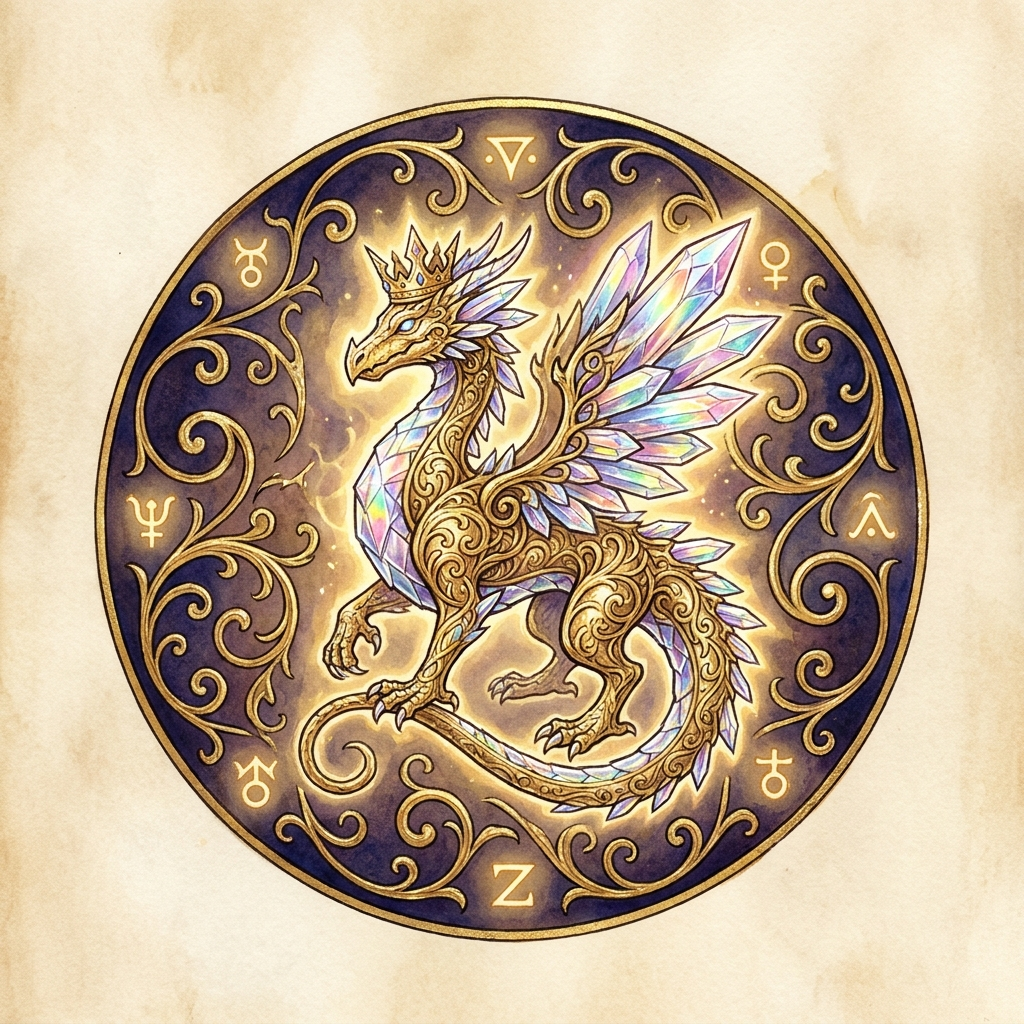
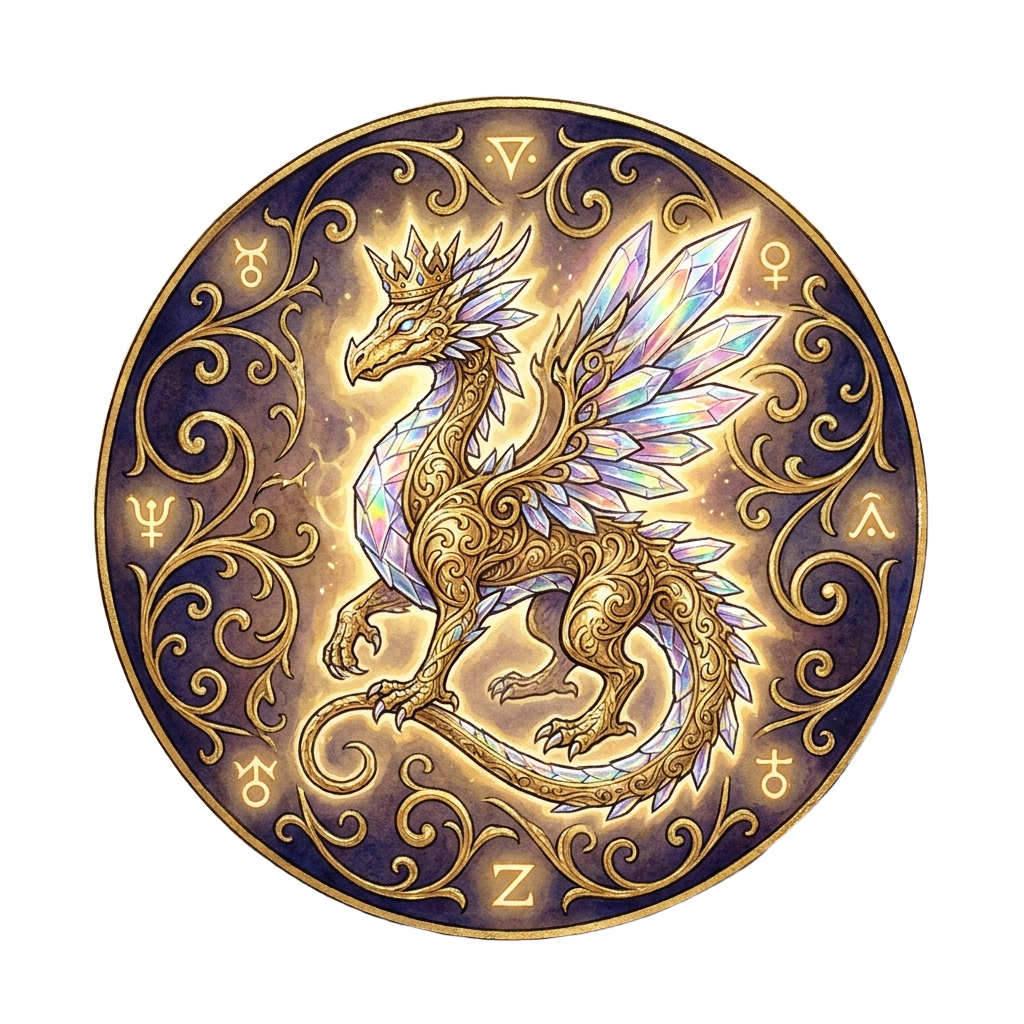
Per-tier critter art (3 refinement stages × 6 essences) with backgrounds removed
- Generated 18 critters (low/mid/high per essence) + refreshed Magnum Opus, all
  background-removed to transparent RGBA PNGs (Higgsfield)
- assets.ts: stageFor(tier) maps 1-4 low / 5-8 mid / 9-10 high / 11 Magnum Opus;
  per-essence art map; removed old tier-1 placeholders
- Critters now visibly refine as they climb the ladder; crisp transparent cards
- Web bundle includes all 19 critter assets; typecheck clean
- docs/ART_DIRECTION + README updated

diff --git a/apps/mobile/src/assets.ts b/apps/mobile/src/assets.ts
@@ -1,22 +1,54 @@
 import type { Critter, EssenceId } from "@cc/engine";
 
-// Static requires so Metro bundles the assets.
-const ESSENCE_ART: Record<EssenceId, number> = {
-  ember: require("../assets/critters/ember-t1.png"),
-  brine: require("../assets/critters/brine-t1.png"),
-  loam: require("../assets/critters/loam-t1.png"),
-  vapor: require("../assets/critters/vapor-t1.png"),
-  brimstone: require("../assets/critters/brimstone-t1.png"),
-  gleam: require("../assets/critters/gleam-t1.jpg"),
+type Stage = "low" | "mid" | "high";
+
+/** Visual refinement stage by tier: 1-4 grubby, 5-8 gleaming, 9-10 radiant. */
+function stageFor(tier: number): Stage {
+  if (tier <= 4) return "low";
+  if (tier <= 8) return "mid";
+  return "high";
+}
+
+// Static requires so Metro bundles every asset. Backgrounds removed (transparent PNGs).
+const ART: Record<EssenceId, Record<Stage, number>> = {
+  brimstone: {
+    low: require("../assets/critters/brimstone-low.png"),
+    mid: require("../assets/critters/brimstone-mid.png"),
+    high: require("../assets/critters/brimstone-high.png"),
+  },
+  vapor: {
+    low: require("../assets/critters/vapor-low.png"),
+    mid: require("../assets/critters/vapor-mid.png"),
+    high: require("../assets/critters/vapor-high.png"),
+  },
+  ember: {
+    low: require("../assets/critters/ember-low.png"),
+    mid: require("../assets/critters/ember-mid.png"),
+    high: require("../assets/critters/ember-high.png"),
+  },
+  brine: {
+    low: require("../assets/critters/brine-low.png"),
+    mid: require("../assets/critters/brine-mid.png"),
+    high: require("../assets/critters/brine-high.png"),
+  },
+  loam: {
+    low: require("../assets/critters/loam-low.png"),
+    mid: require("../assets/critters/loam-mid.png"),
+    high: require("../assets/critters/loam-high.png"),
+  },
+  gleam: {
+    low: require("../assets/critters/gleam-low.png"),
+    mid: require("../assets/critters/gleam-mid.png"),
+    high: require("../assets/critters/gleam-high.png"),
+  },
 };
 
 const MAGNUM_OPUS: number = require("../assets/critters/magnum-opus.png");
 
-/** Concept art for a critter. For now lower tiers reuse the essence art; the
- *  Magnum Opus tier gets the legendary showpiece. Add per-tier art over time. */
+/** Concept art for a critter: per-essence, per-tier-stage; Magnum Opus for the peak. */
 export function critterArt(c: Critter): number {
   if (c.tier >= 11) return MAGNUM_OPUS;
-  return ESSENCE_ART[c.essence];
+  return ART[c.essence][stageFor(c.tier)];
 }
 
 export const crucibleArt: number = require("../assets/ui/crucible.png");

diff --git a/docs/ART_DIRECTION.md b/docs/ART_DIRECTION.md
@@ -1,9 +1,10 @@
 # Art Direction — *Crucible Critters*
 
-> **Status:** Concept art not yet generated — the Higgsfield account is on the **free plan
-> with 0 credits**, so image generation is currently blocked. Add credits (or tell me to use
-> another path) and these prompts are ready to one-shot. The app currently uses themed
-> placeholder vector cards + a Skia-drawn crucible.
+> **Status:** Core art generated & wired in. Critters now have **3 refinement stages per
+> essence** (low/mid/high) — 18 transparent (background-removed) pieces — plus the Magnum
+> Opus showpiece, the crucible (success + slag), and the app icon. `stageFor(tier)` maps
+> tiers 1-4→low, 5-8→mid, 9-10→high, 11→Magnum Opus (see `apps/mobile/src/assets.ts`).
+> Future polish: bespoke per-tier (all 11) art per essence if desired.
 
 ## Visual identity
 - **Genre feel:** cozy-creepy alchemist's apothecary × illuminated medieval manuscript.

diff --git a/README.md b/README.md
@@ -50,6 +50,7 @@ codebase later (EAS Build).
 - [x] P2: Covens (invite codes, packmate fielded-bonus, Homunculus co-op boss) + leaderboards
 - [x] Accounts & login (username/password, token-guarded routes, guest-claim, XP bar)
 - [x] P2+: Exhibition (ranked ELO ladder, weekly seasons, Renown shop) + world/coven chat
+- [x] Per-tier critter art (3 refinement stages × 6 essences, backgrounds removed)
 - [ ] Deploy to Render and share the link with the group
 - [ ] Android APK via EAS Build
 - [ ] Economy & combat numbers playtested
